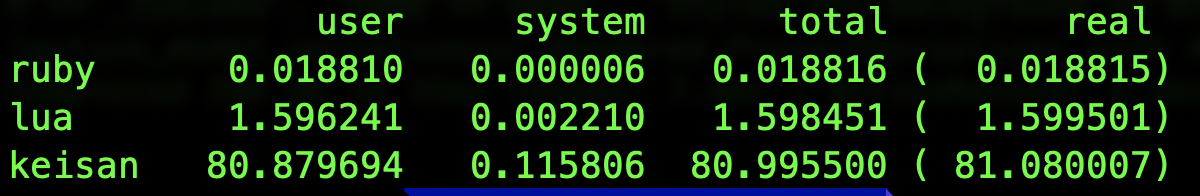
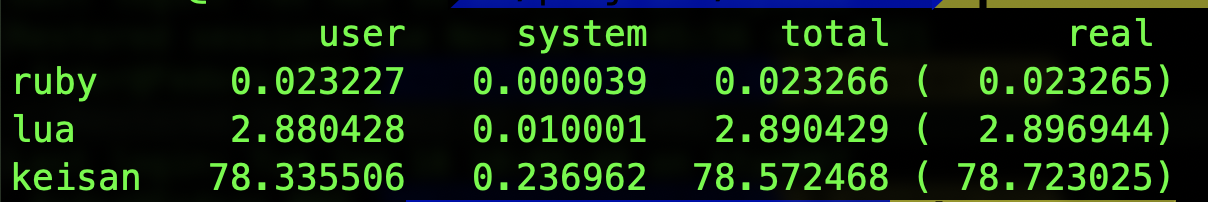
a little complex formula

diff --git a/test.rb b/test.rb
@@ -1,5 +1,5 @@
 require 'rufus-lua'
-require 'benchmark'Screenshot 2022-04-07 at 21.15.22.png
+require 'benchmark'
 require 'pry'
 require 'keisan'
 
@@ -24,11 +24,23 @@ calculator = Keisan::Calculator.new
 #   require=nil
 # })
 
+y = 2
 
-Benchmark.bm(7) do |x|
-  x.report('ruby') { n.times { a = 1 + 1 } }
-  x.report('lua') { n.times { lua.eval('a = 1 + 1')} }
-  x.report('keisan') { n.times { calculator.evaluate("a = 1 + 1")} }
+Benchmark.bm(7) do |bm|
+  bm.report('ruby') { n.times {
+    x = 10*y
+    a = 3*x + 1
+  } }
+  bm.report('lua') { n.times {
+    lua.eval(%{
+      x = 10 * #{y}
+      a = x*3 + 1
+    })}
+  }
+  bm.report('keisan') { n.times {
+    calculator.evaluate("x = 10*y", y: y)}
+    calculator.evaluate("a = 3*x + 1")
+  }
 end
 
 lua.close

diff --git a/README.md b/README.md
@@ -1,3 +1,3 @@
 # Results
 
- ![results](https://github.com/Fabel/lua-benchmark/blob/master/results.png)
+ ![results](https://github.com/Fabel/lua-benchmark/blob/second/results.png)
